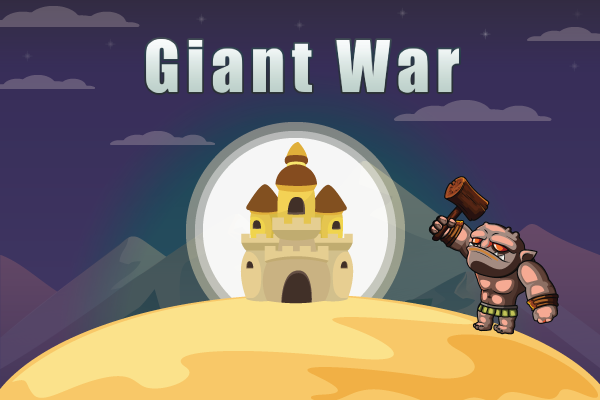
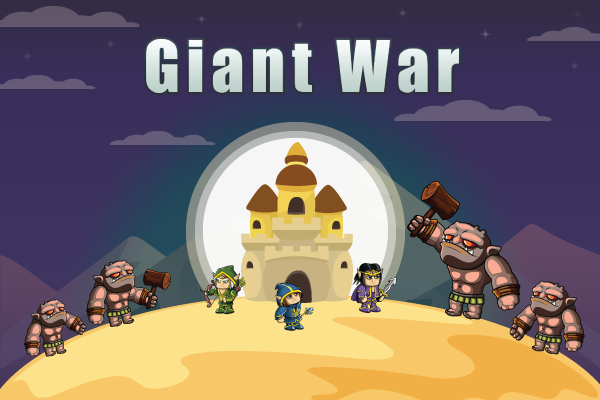
Add spritesheet and new background

diff --git a/states/gamePlay.js b/states/gamePlay.js
@@ -87,6 +87,8 @@ function Field(fieldRows, fieldCols, tileImageName, tileWidth, tileHeight, tileS
             console.log("row : " + target.value.row + ", y-axis : " + target.y);
             var characterIndex = buttonSelectedCharacter.pop().value;
             var character = game.add.sprite(target.x+(tileWidth/2), target.y, characterList[characterIndex].characterSpriteKey, 0, fieldRowsGroup[target.value.row]);
+            character.animations.add('stand',[0,1,2], 3, true);
+            character.play('stand');
             character.anchor.setTo(0.5, 0.5);
             game.physics.arcade.enable(character);
             //indexOf()returns index of array
@@ -135,7 +137,9 @@ function GenerateGiant(fieldNumRows, fieldNumCols, tileWidth, tileHeight, tileSp
     winPoint += biasLeft;
     var firstPoint = (game.height - (fieldNumRows * tileHeight)- ((fieldNumRows-1) * tileSpace)) / 2;
     firstPoint += biasTop;
-    var giant = game.add.sprite(600,firstPoint + ((tileHeight + tileSpace)*(rand-1)) , "sprite-giant-1", 0, enemyFieldRowsGroup[rand-1]);
+    var giant = game.add.sprite(600,firstPoint + ((tileHeight + tileSpace)*(rand-1)) , "spritesheet-giant-1", 0, enemyFieldRowsGroup[rand-1]);
+    giant.animations.add("walk", [0,1], 2, true);
+    giant.animations.play("walk");
     giant.anchor.setTo(0.5, 0.5);
     totalTime++;
     timer = game.time.now+25000;

diff --git a/states/selectChapter.js b/states/selectChapter.js
@@ -68,5 +68,5 @@ function shiftChapter(){
 
 function onClickChapter(){
     ClickButtonFeedback();
-    game.state.start("gamePlay");
+    game.state.start("selectCharacter");
 }
